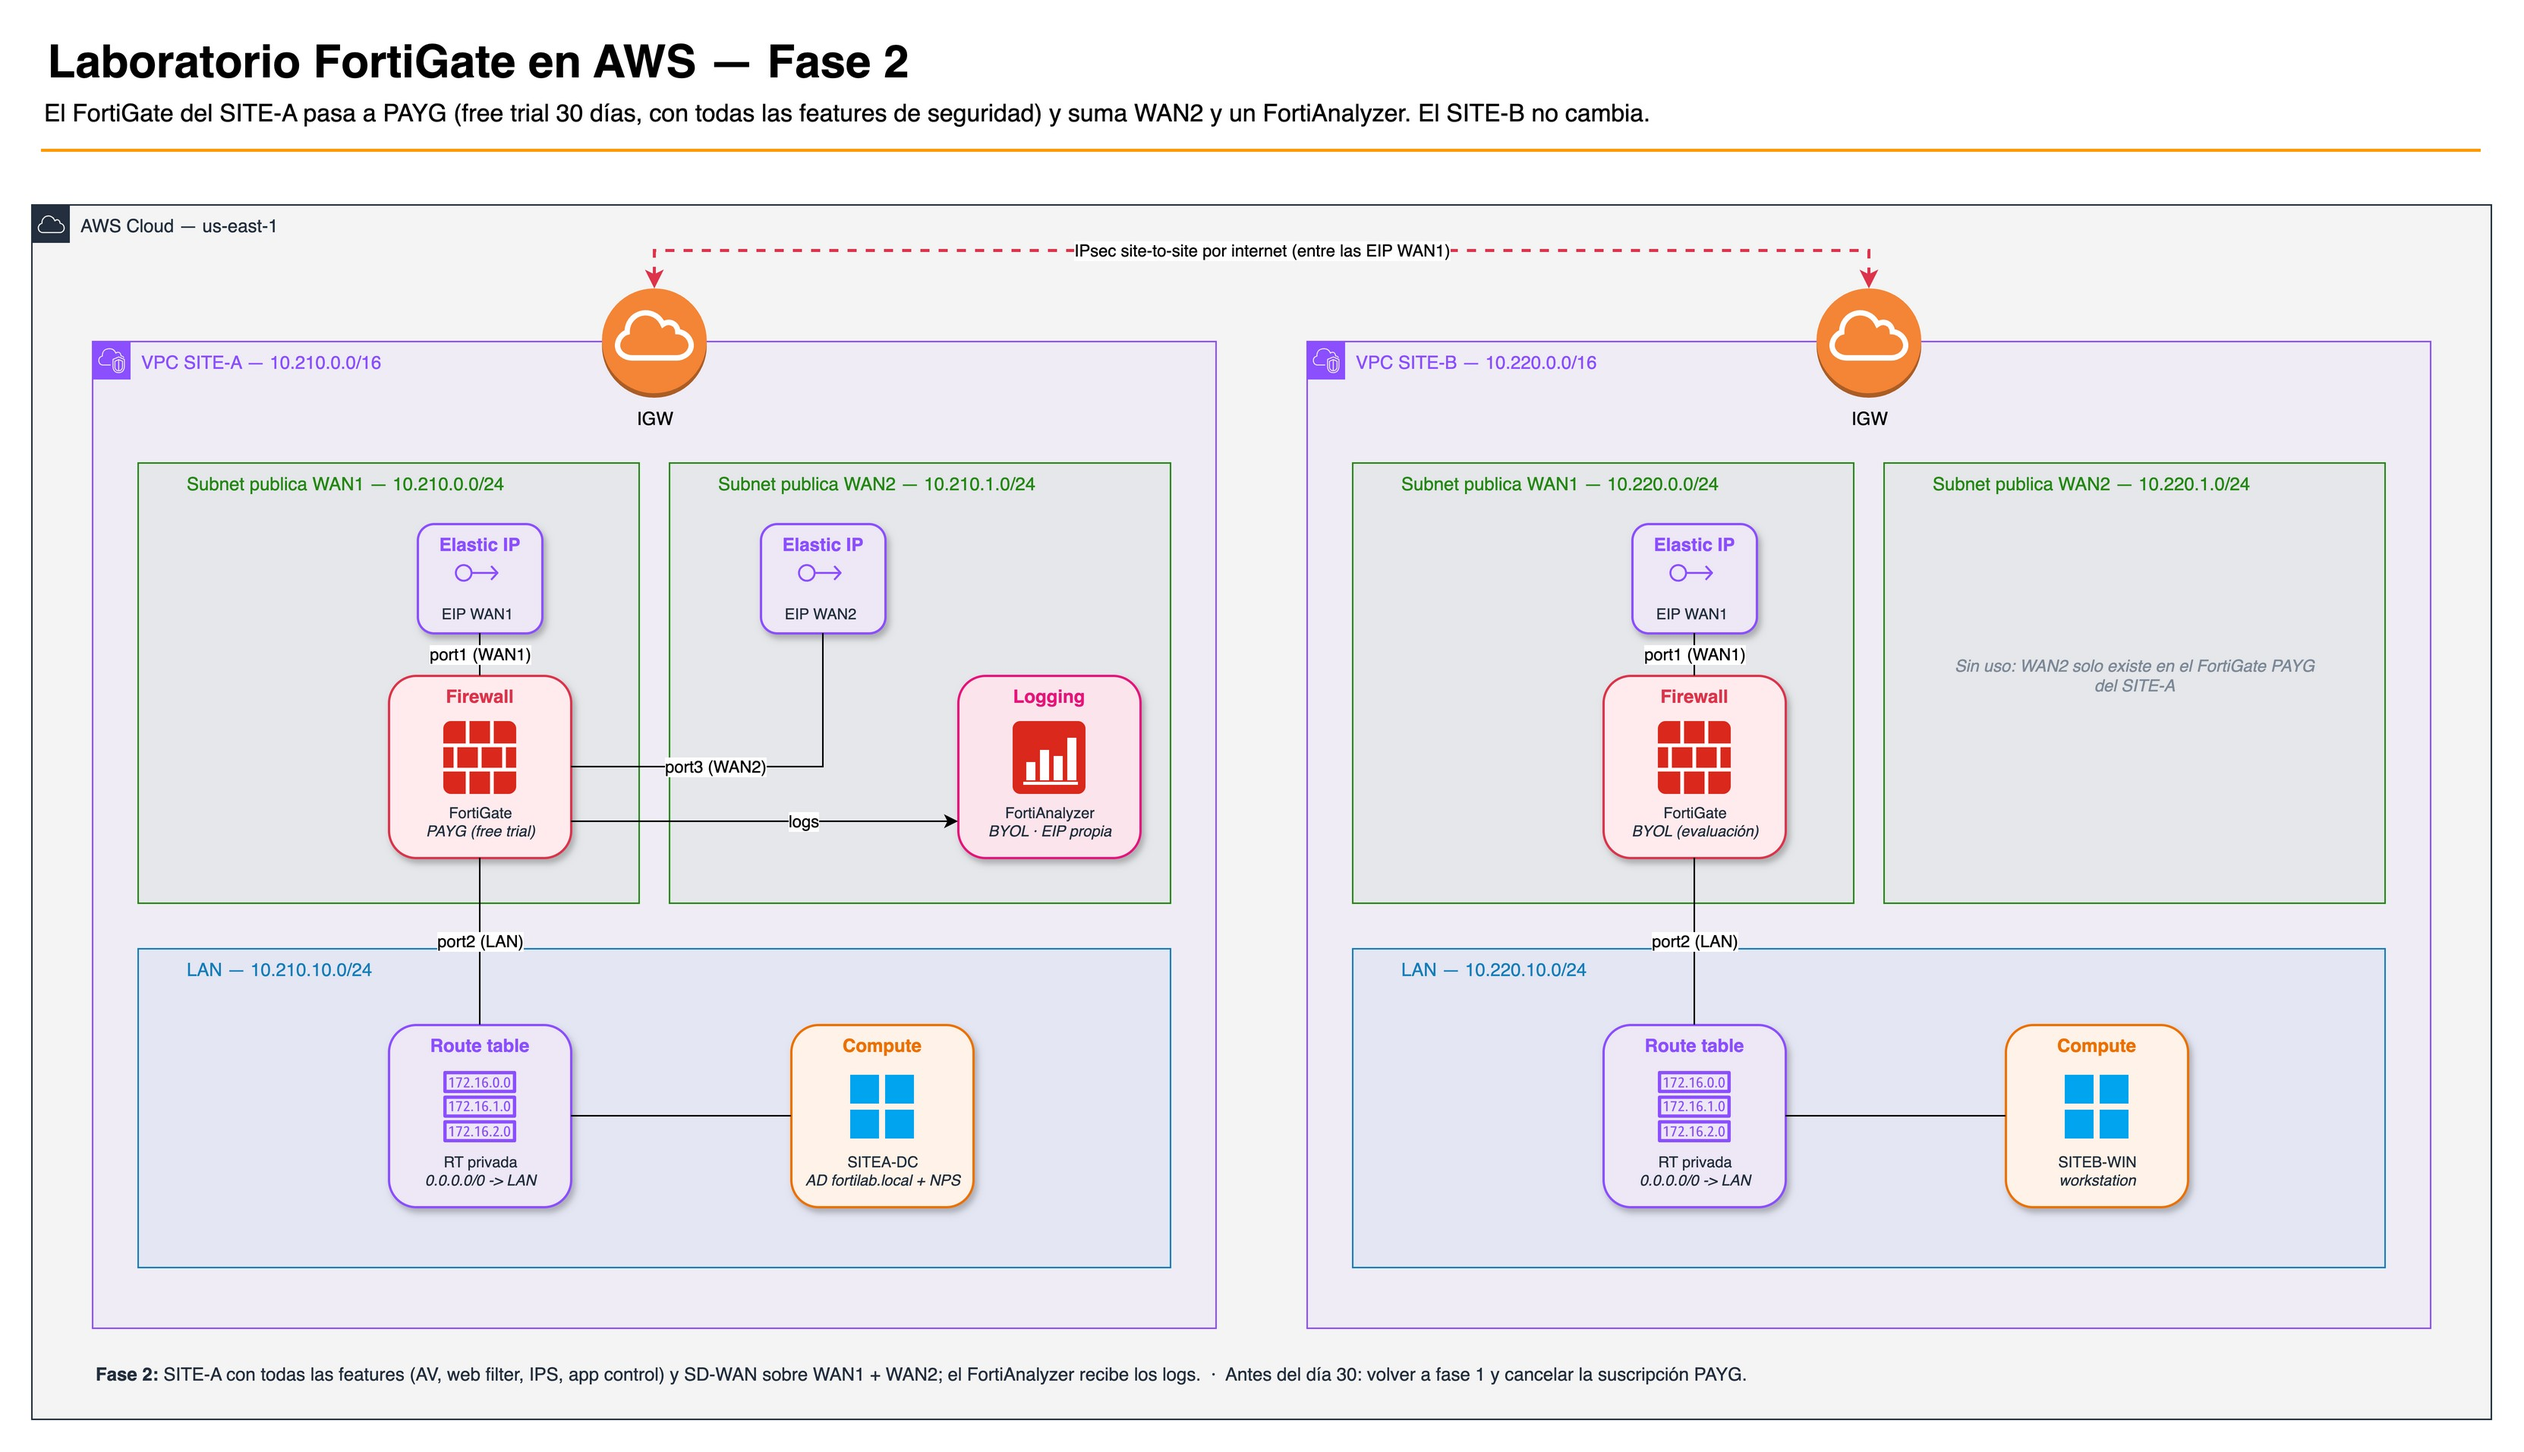
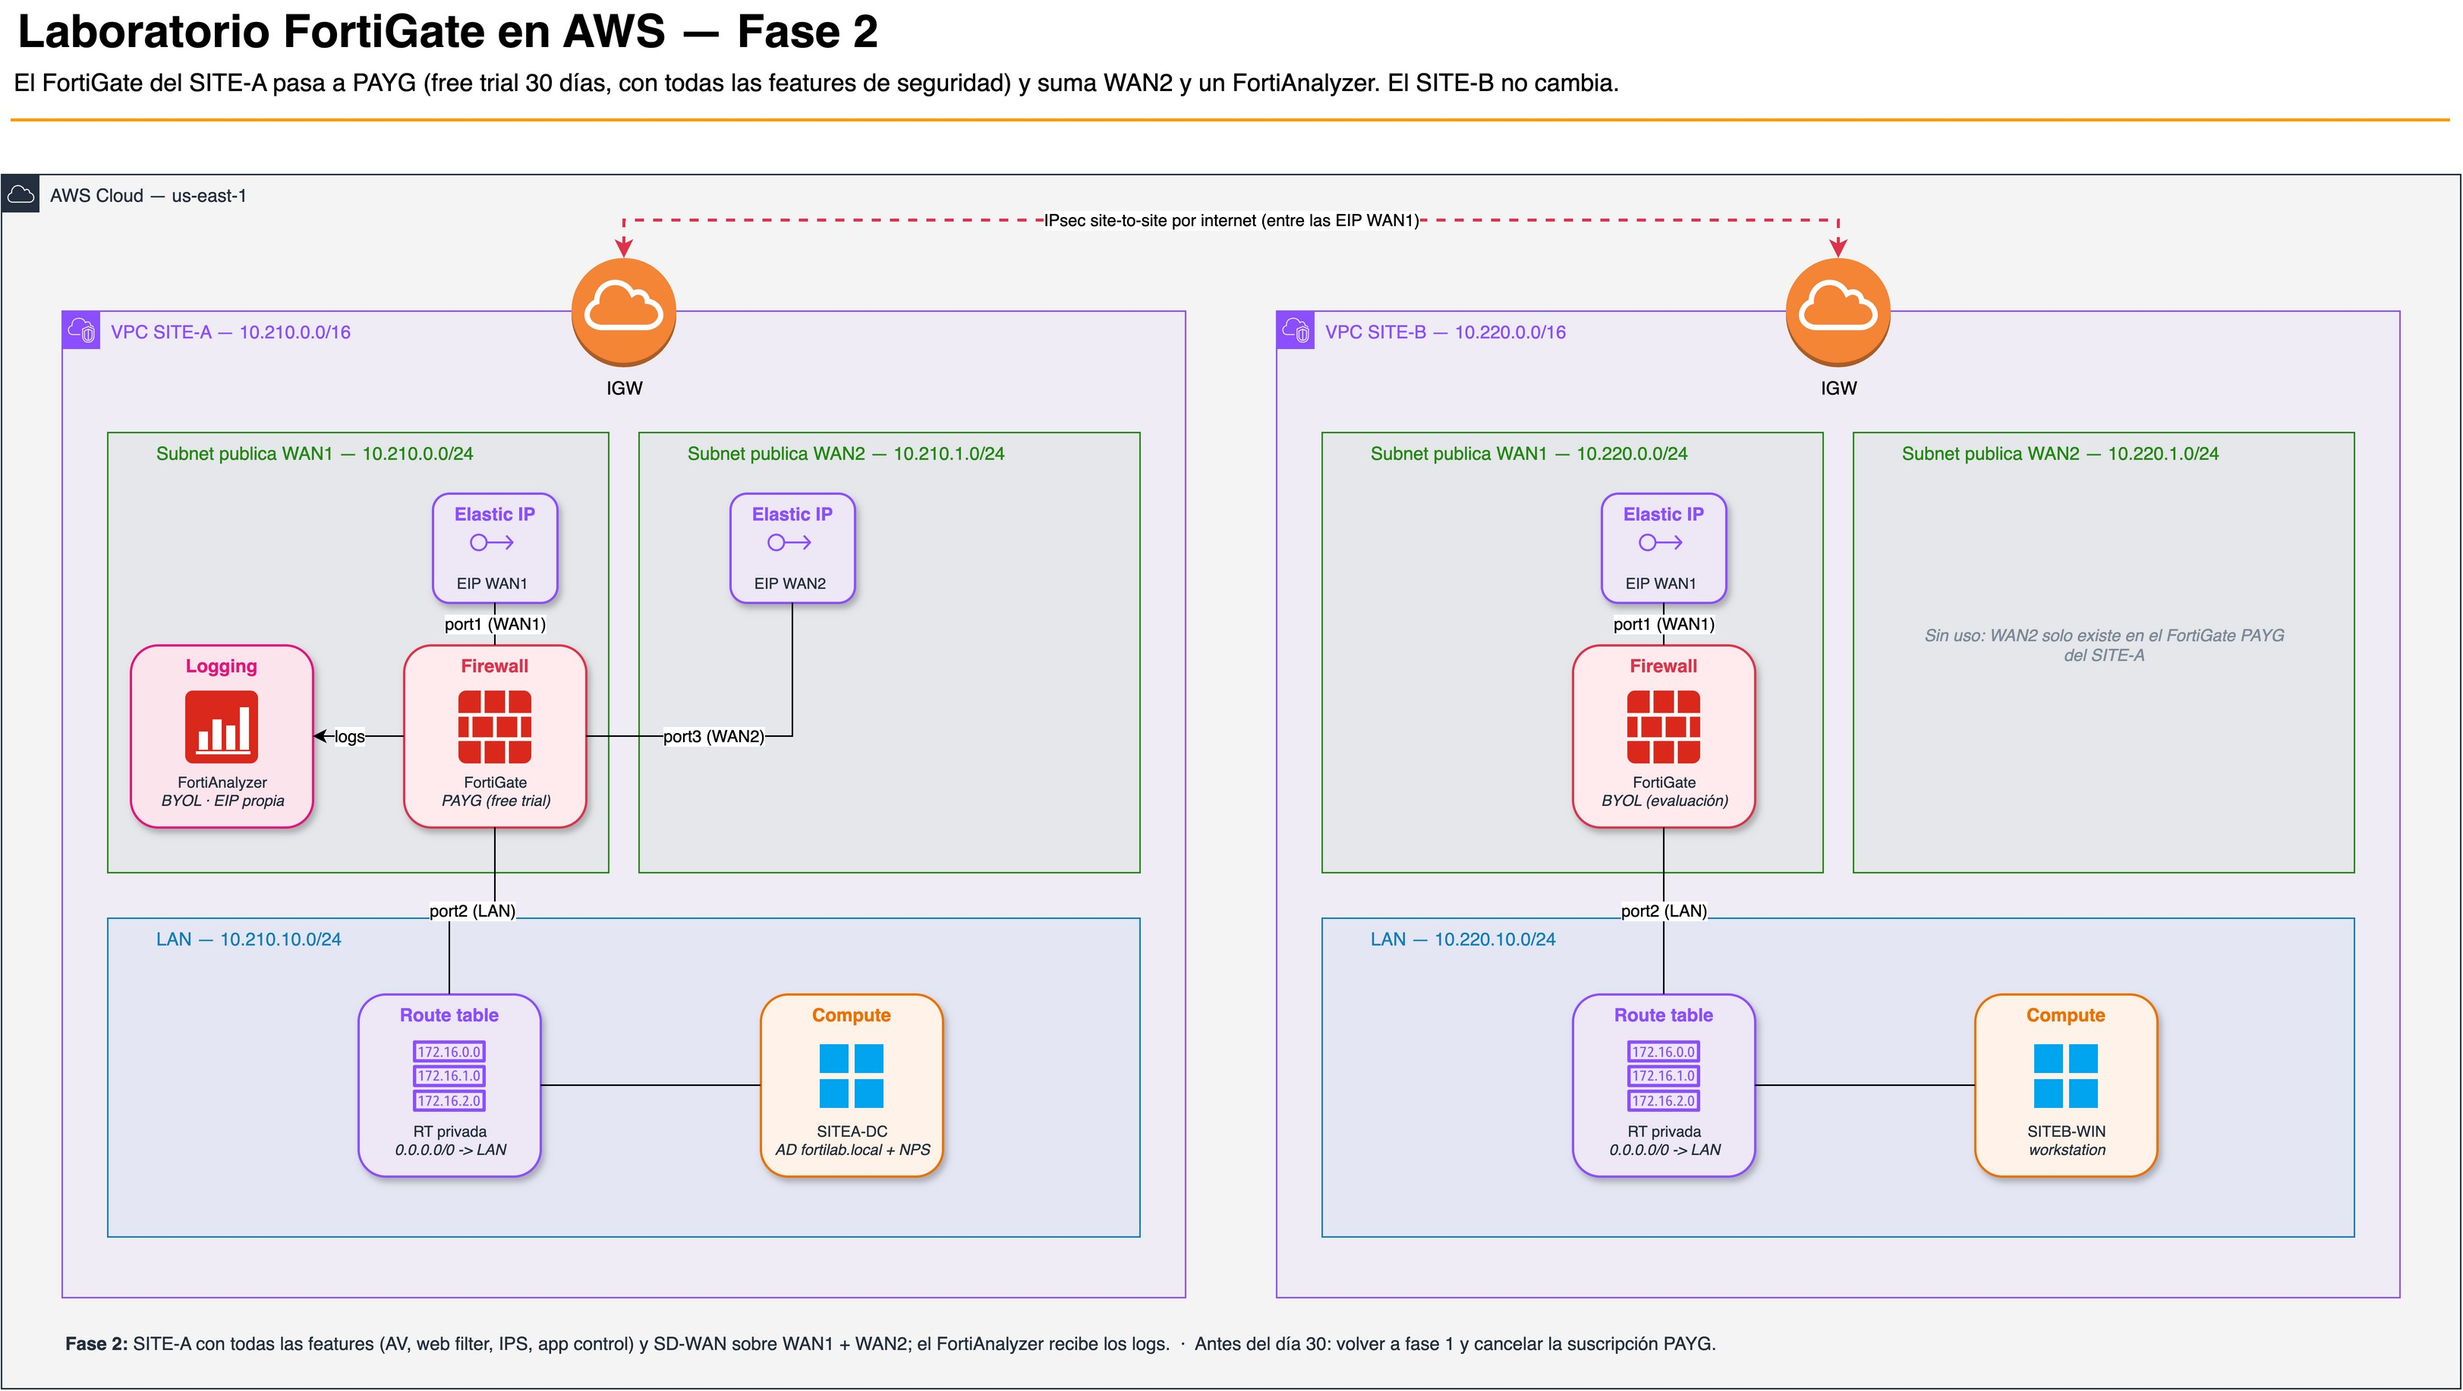
Lab and README improvements

diff --git a/README.md b/README.md
@@ -69,7 +69,9 @@ guía **en orden**. No hace falta instalar nada en tu computadora.
 
 1. Entrá a la consola de AWS: <https://console.aws.amazon.com>.
 2. Arriba a la derecha, elegí la región **N. Virginia (`us-east-1`)**. Usá
-   siempre esta región en todo el curso.
+   siempre esta región en todo el curso. El script crea el lab siempre en
+   N. Virginia: si tu consola está en otra región, te avisa, y no vas a ver los
+   recursos hasta que la cambies.
 3. Abrí **CloudShell**: es el ícono de terminal (`>_`) en la barra de arriba (o
    buscá "CloudShell" en el buscador de la consola). Tarda un minuto la primera
    vez.
@@ -259,7 +261,7 @@ Aunque estén **apagadas**, AWS cobra (de tus créditos) los **discos** y las
 **más de una o dos semanas**, borrá el lab y volvé a crearlo al retomar:
 
 ```bash
-./lab.sh destroy     # borra el lab (las alertas de costos siguen activas)
+./lab.sh destroy     # borra el lab (pide confirmar con 'si'; las alertas de costos siguen activas)
 # ... cuando retomes:
 ./lab.sh deploy
 ```
@@ -285,8 +287,10 @@ internet (**WAN2**, para SD-WAN). El SITE-B no cambia.
 > ⚠ **Leé esto antes de empezar:**
 > - La prueba es de **30 días** y **cubre una sola máquina**.
 > - Al día 30 **se convierte sola en pago**, y ese pago **NO lo cubren los
->   créditos**: sale de tu tarjeta (unos US$ 0,88 por hora). **Agendá un
->   recordatorio** para terminar la fase 2 antes del día 30.
+>   créditos**: sale de tu tarjeta (unos US$ 0,88 por cada hora que el
+>   FortiGate PAYG está **prendido**; apagado no cobra licencia). **Agendá un
+>   recordatorio** para terminar la fase 2 antes del día 30. `./lab.sh status`
+>   te muestra en qué día del trial estás y cuándo vence.
 > - Hacela **después** de completar los labs de la fase 1.
 
 ### Empezar la fase 2
@@ -312,12 +316,13 @@ internet (**WAN2**, para SD-WAN). El SITE-B no cambia.
    **Restore**.
 5. El **FortiAnalyzer** aparece en `./lab.sh status`: entrá a `https://<su-IP>`
    con usuario `admin` y su instance-id como contraseña, y activá su licencia de
-   prueba con tu cuenta FortiCare.
+   prueba con tu **segunda cuenta FortiCare** (la misma en la que registrás el
+   FortiGate PAYG).
 
 ### Terminar la fase 2 (antes del día 30)
 
 1. Volvé a la fase 1 (borra el FortiGate PAYG y el FortiAnalyzer y recrea el
-   FortiGate BYOL del SITE-A):
+   FortiGate BYOL del SITE-A). Te pide confirmar escribiendo `si`:
 
    ```bash
    ./lab.sh deploy fase1
@@ -374,10 +379,10 @@ para usarlo.
 | `./lab.sh budget deploy`         | **Primero, una sola vez.** Crea las alertas de costos por email. Es un despliegue independiente: no lo afectan los `deploy`/`destroy` del lab. |
 | `./lab.sh budget destroy`        | Al terminar el curso: elimina las alertas y su bucket de state. |
 | `./lab.sh budget plan`           | Muestra qué crearía/cambiaría `budget deploy`, sin aplicar. |
-| `./lab.sh deploy [fase1\|fase2]` | Despliega el lab. `fase1` (default) = ambos FortiGate BYOL; `fase2` = FortiGate del SITE-A en PAYG + WAN2 + FortiAnalyzer. |
+| `./lab.sh deploy [fase1\|fase2]` | Despliega el lab. `fase1` = ambos FortiGate BYOL; `fase2` = FortiGate del SITE-A en PAYG + WAN2 + FortiAnalyzer. Sin fase, mantiene la que está desplegada (`fase1` si no hay lab). Pasar de `fase2` a `fase1` pide confirmar con `si`. |
 | `./lab.sh plan [fase1\|fase2]`   | Muestra qué se va a crear/cambiar, sin aplicar. |
-| `./lab.sh destroy`               | Destruye todo el lab y borra su bucket de state. **No toca el budget.** |
-| `./lab.sh status`                | Estado del lab sin cambiar nada: instancias (prendida/apagada, status checks, versión de FortiOS), IPs públicas, Windows conectados a SSM (y si el DC ya está en el dominio) y créditos consumidos. No necesita Terraform. |
+| `./lab.sh destroy`               | Destruye todo el lab y borra su bucket de state (pide confirmar con `si`). **No toca el budget.** |
+| `./lab.sh status`                | Estado del lab sin cambiar nada: instancias (prendida/apagada, status checks, versión de FortiOS), IPs públicas, Windows conectados a SSM (y si el DC ya está en el dominio), día del trial PAYG (en fase 2) y créditos consumidos. No necesita Terraform. |
 
 ### Topología
 
